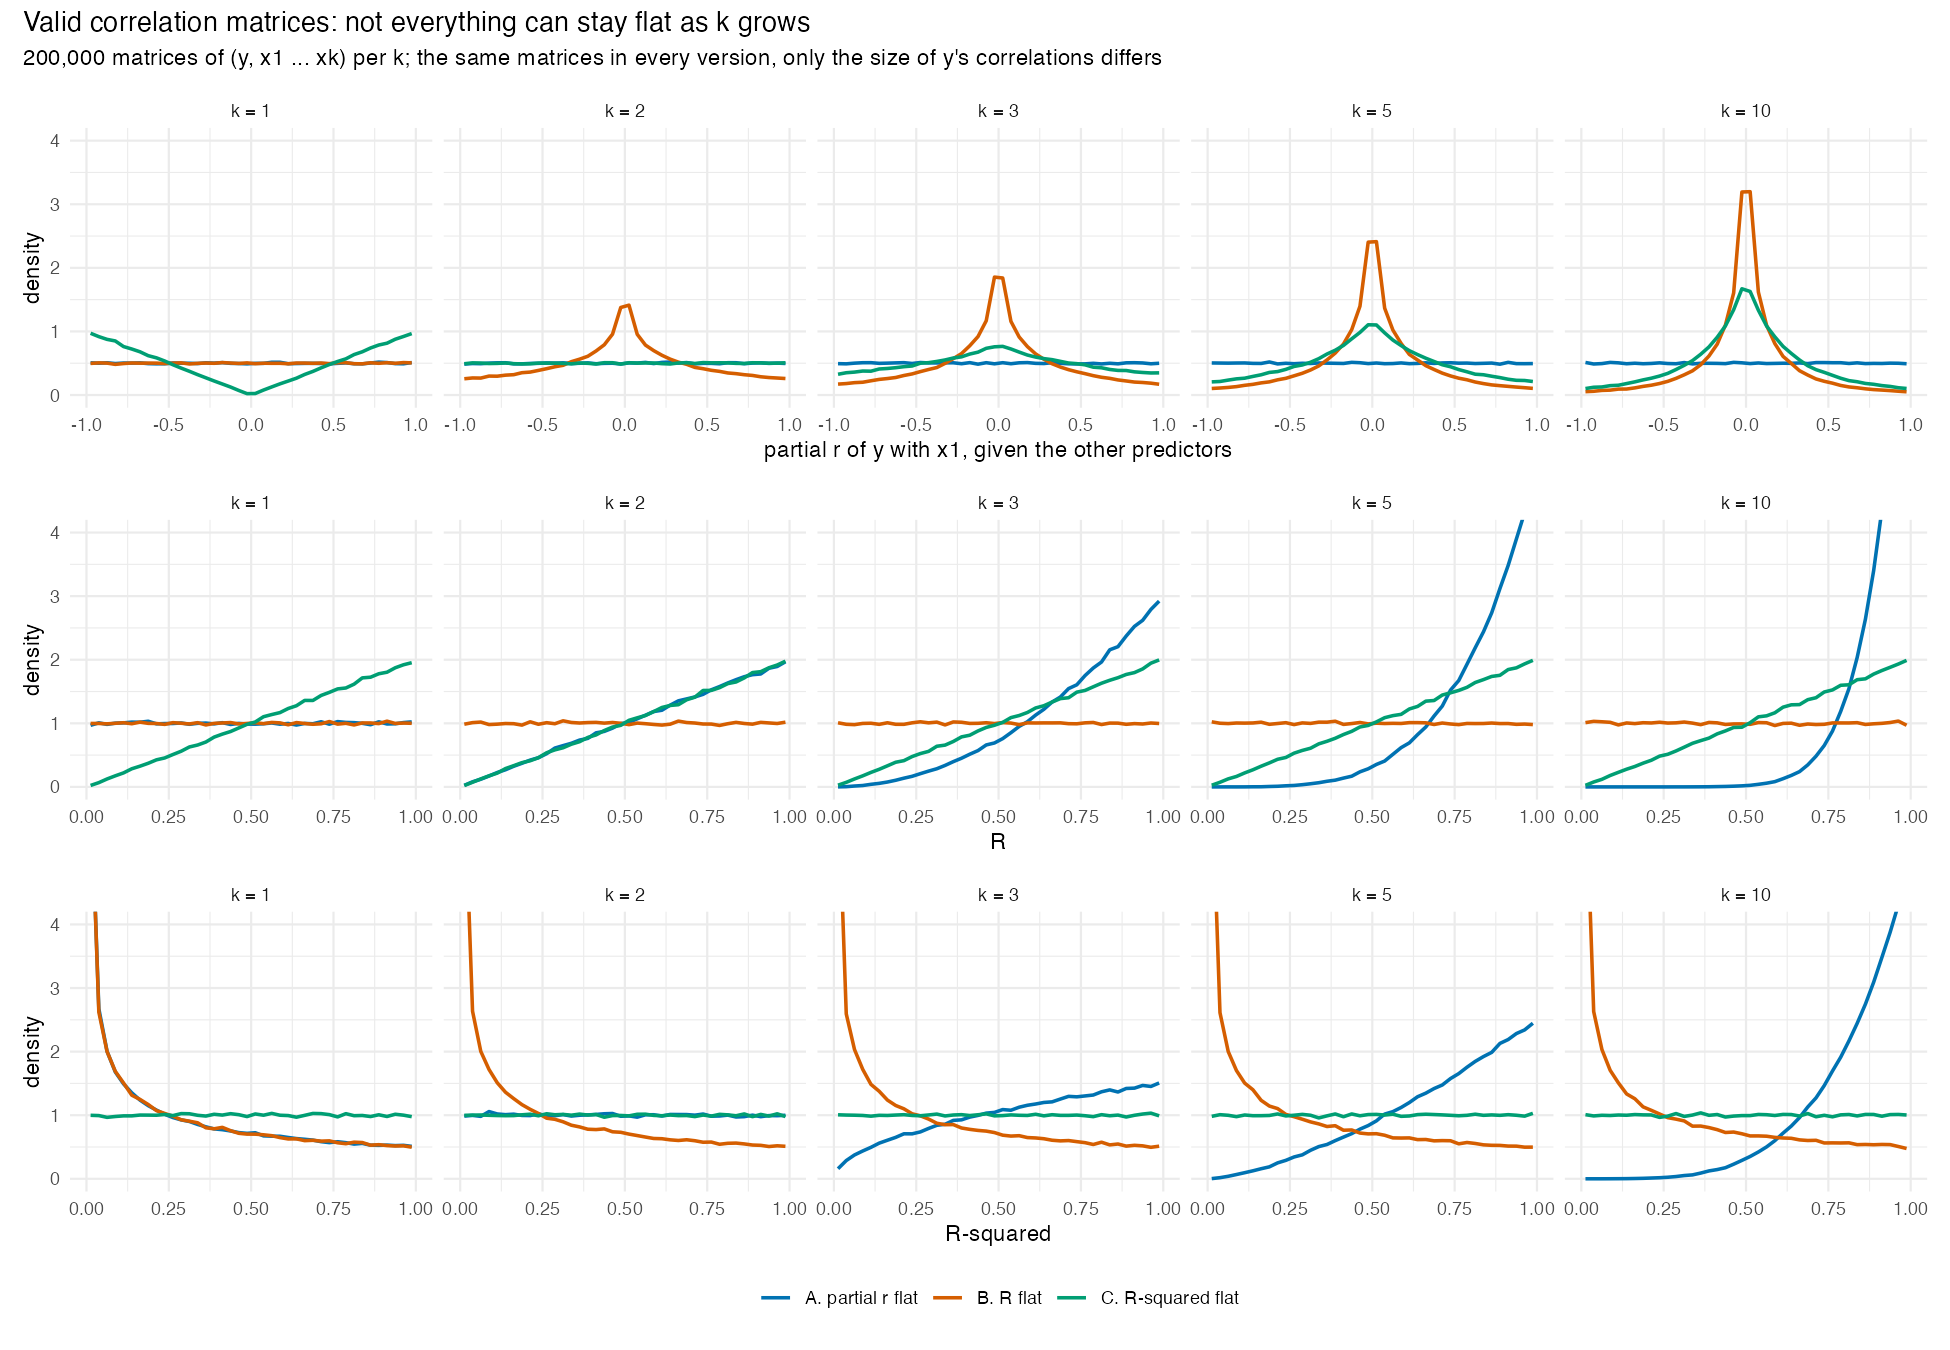
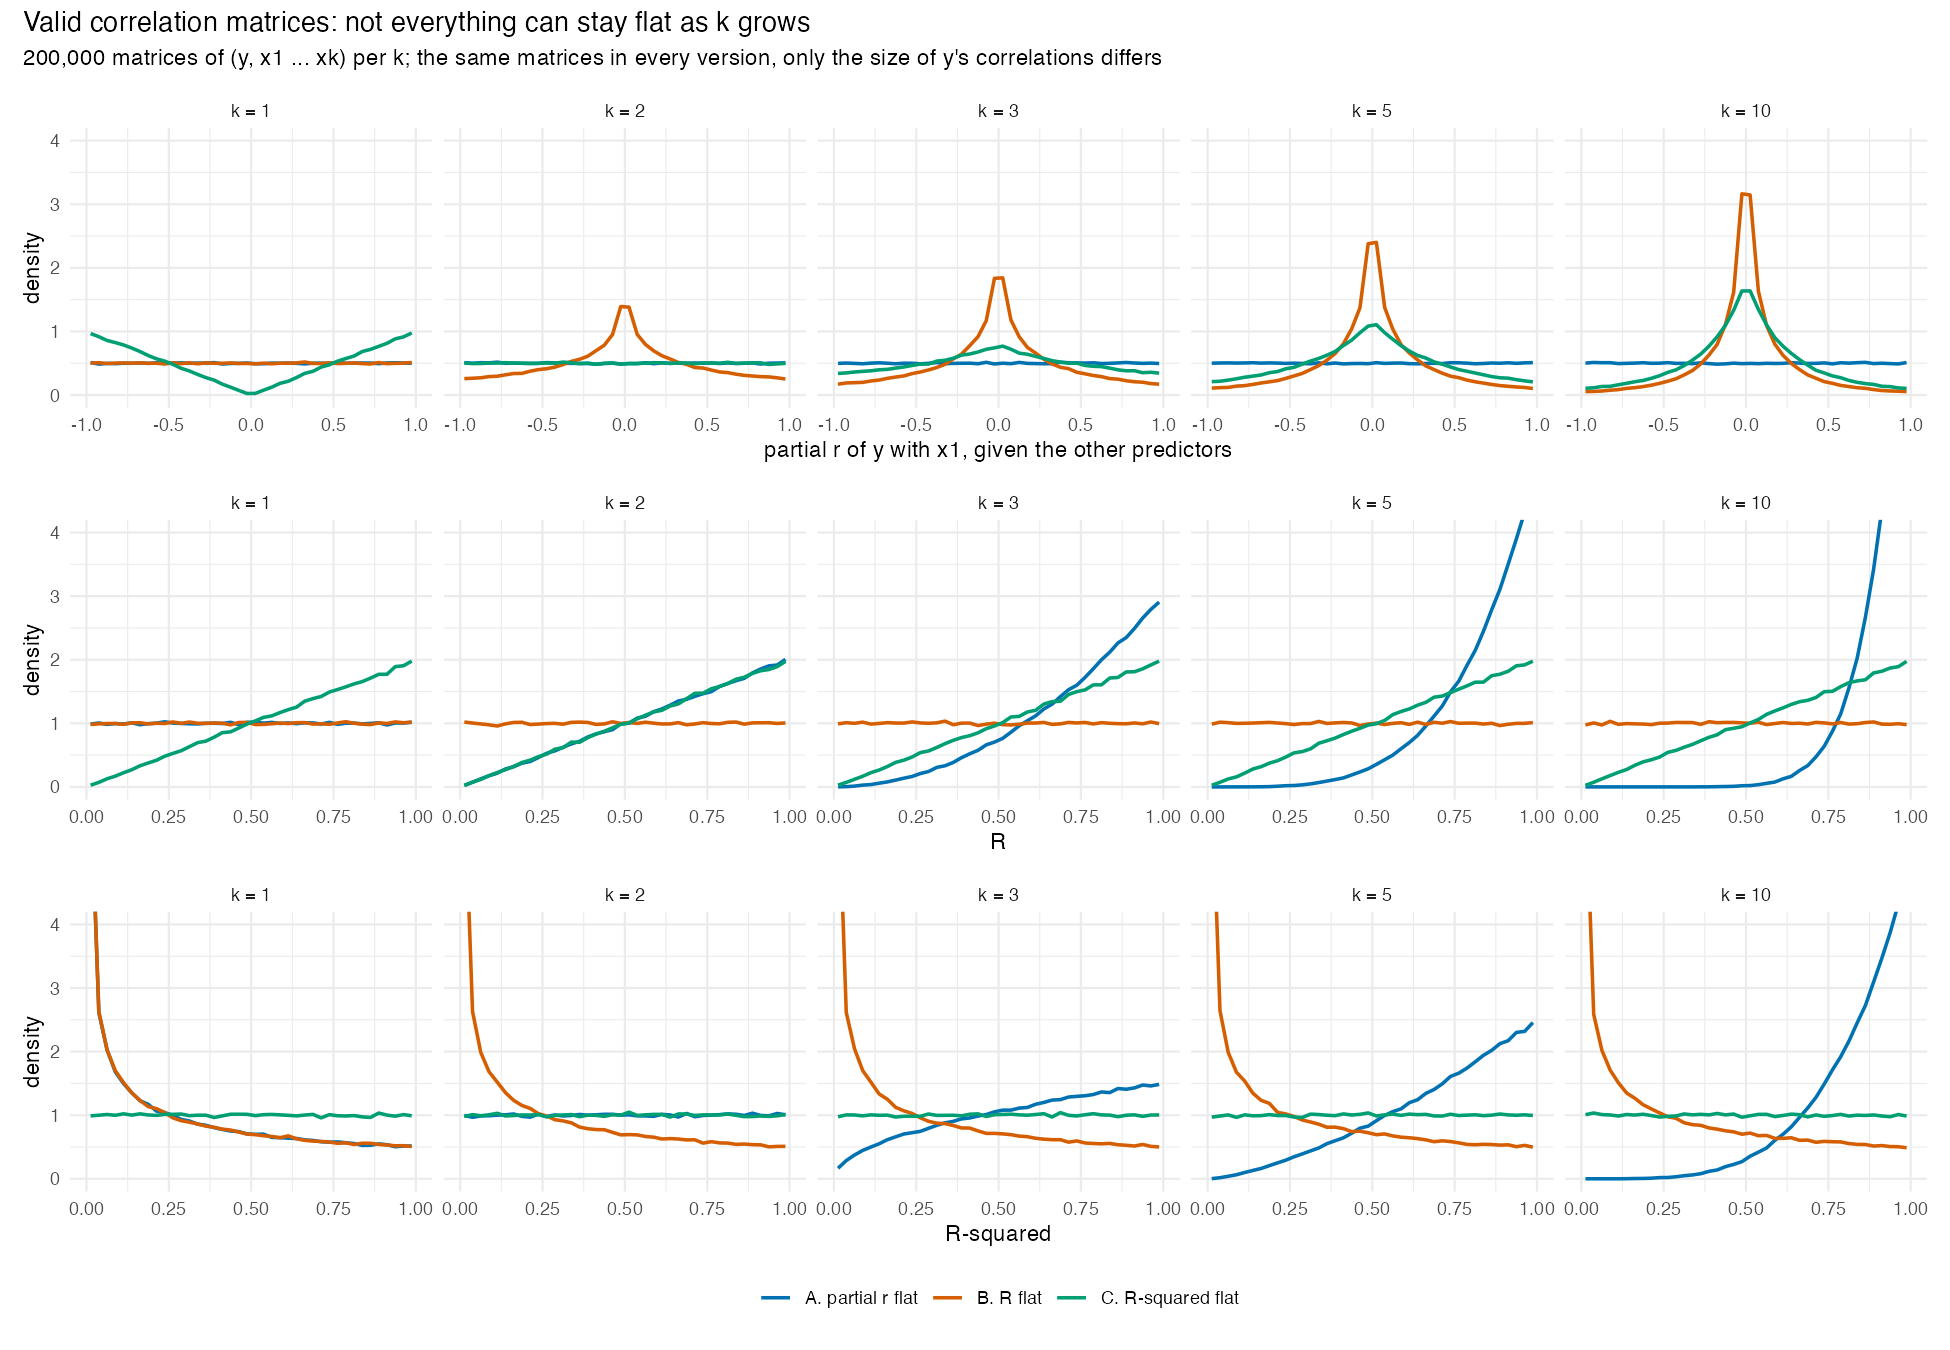
Docs from the run at 21d42dc; doc 3 removed; flat R coherence finding
Numbers in the README, findings, docs 0-3, relation_to_others and the
report updated and checked against the run of 4 November 12:24 (137 of 138
checks). docs/3_consistency.md removed (criteria are checked numerically,
not proven); docs renumbered (3_comparison, 4_validation). Flat R: the
Savage-Dickey route is replaced by study 10 part 3 (P6, P7). The update of
docs/4_validation.md is partial and not yet fully checked.

diff --git a/docs/relation_to_others.md b/docs/relation_to_others.md
@@ -93,8 +93,7 @@ and they differ in one claim:
   predictor 0.50, 0.35, 0.23 for $k$ = 1, 3, 8). The marginally uniform prior of
   Barnard, McCulloch & Meng (2000), the correlations of an inverse-Wishart with
   $k + 2$ degrees of freedom, keeps every single correlation flat for any $k$, and
-  implies the same $R^2 \sim$ Beta($k/2$, 1) (simulation, KS ≤ 0.007 for $k$ =
-  2–8, 40,000 draws). So "flat on the correlations", in either sense, gives
+  implies the same $R^2 \sim$ Beta($k/2$, 1). So "flat on the correlations", in either sense, gives
   $a = k/2$; only "flat on the total" gives flat R.
 
 ### How Beta($k/2$, 1) was found: simulate, then derive, then check
@@ -134,7 +133,7 @@ values with the Beta distribution that a short argument predicts.
    with $p_j$ the partial correlations of step 2: independent Betas whose
    parameters step up by ½ each time. A product of Betas like that collapses
    into one Beta, which predicts $R^2 \sim$ Beta($k/2$, η). The simulated $R^2$
-   matches that Beta to within simulation noise (KS ≈ 0.01; check V4 in 09),
+   matches that Beta to within simulation noise (KS 0.010–0.013; check V4 in 09),
    and η = 2 matches too, so the formula holds beyond the flat case.
 
 Neither half is enough alone: the simulation without the formula is only
@@ -173,13 +172,14 @@ variables. LKJ gives every ordering of the variables the same distribution, so
 put $y$ and the tested predictor last: their partial correlation given all the
 others is that last-level Beta(η, η).
 
-Simulated (4,000 matrices per cell, KS distance; run of 4 November 2026):
+Simulated (4,000 matrices per cell, KS distance; validation run of 4 November
+2026, commit 21d42dc):
 
 | | $k = 1$ | $k = 3$ | $k = 8$ |
 |---|---|---|---|
-| η = 1, to flat | 0.007 | 0.018 | 0.012 |
-| η = 2, to flat | 0.100 | 0.104 | 0.104 |
-| η = 2, to Beta(2, 2) | 0.013 | 0.014 | 0.013 |
+| η = 1, to flat | 0.016 | 0.013 | 0.013 |
+| η = 2, to flat | 0.097 | 0.104 | 0.101 |
+| η = 2, to Beta(2, 2) | 0.012 | 0.018 | 0.014 |
 
 **What is not new.** A flat prior on each partial correlation is the default
 partial-correlation test (Wetzels & Wagenmakers, 2012; Kucharský et al., 2026,
@@ -196,7 +196,7 @@ What flat partial r adds is: the fixed-X version of their test, that this
 test follows from one prior on the whole model, and that the same prior gives
 Bayes factors between whole models and estimates (`stan_lm` with η = 1).
 
-**In variable selection** ([`5_validation.md`](5_validation.md), 09) the three are compared
+**In variable selection** ([`4_validation.md`](4_validation.md), 09) the three are compared
 with JZS, Zellner–Siow and BIC. They rank real above null predictors almost
 equally (flat partial r and flat R-squared within 0.025 of flat R in AUC in
 every cell; +0.003 and −0.002 on average). They differ in where they draw the line: at
@@ -332,7 +332,7 @@ papers marked below still need a full read before anything is written up).
   Liang et al. report no simulations of this kind.
 - **The three as one family**, $R^2 \sim$ Beta($a$, 1) with $a = k/2$, ½ or 1,
   compared side by side on the Bayarri et al. criteria
-  ([`4_comparison.md`](4_comparison.md)).
+  ([`3_comparison.md`](3_comparison.md)).
 
 **Still to read in full:** Kucharský et al. (2026), on whether $k$ is
 discussed beyond its role in the formula; Som et al. (2016), its theorems on

diff --git a/validation/results/00_first_result.md b/validation/results/00_first_result.md
@@ -10,8 +10,8 @@ and R-squared grows with k; keep R or R-squared flat and each partial r shrinks 
 | 2 | 0.70 | 0.50 | 0.50 | 0.29 | 0.70 | 0.50 |
 | 3 | 0.70 | 0.65 | 0.41 | 0.29 | 0.60 | 0.50 |
 | 4 | 0.70 | 0.75 | 0.36 | 0.29 | 0.54 | 0.50 |
-| 5 | 0.70 | 0.82 | 0.32 | 0.29 | 0.49 | 0.50 |
-| 6 | 0.70 | 0.87 | 0.29 | 0.29 | 0.46 | 0.50 |
+| 5 | 0.70 | 0.82 | 0.32 | 0.29 | 0.50 | 0.50 |
+| 6 | 0.70 | 0.88 | 0.29 | 0.29 | 0.46 | 0.50 |
 | 7 | 0.70 | 0.91 | 0.27 | 0.29 | 0.43 | 0.50 |
 | 8 | 0.70 | 0.94 | 0.25 | 0.29 | 0.40 | 0.50 |
 | 9 | 0.70 | 0.96 | 0.23 | 0.29 | 0.38 | 0.50 |
